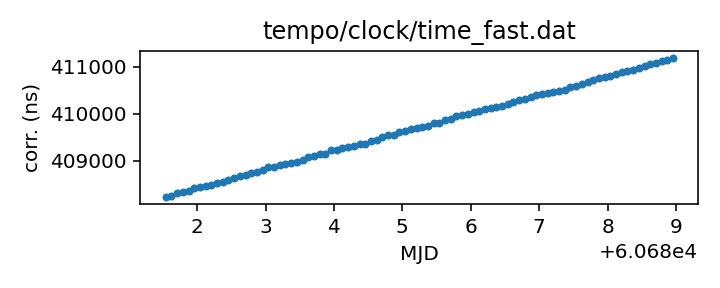
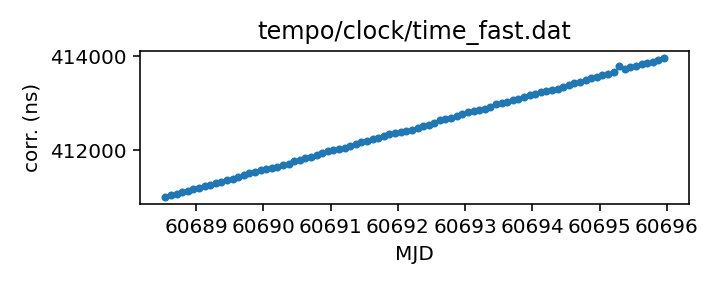
Routine gh-pages update from Github action Wed Jan 22 20:35:40 UTC 2025

diff --git a/status.md b/status.md
@@ -13,18 +13,18 @@ name of each clock file links to a page with more details.
 
 | Name | File | Corrections start | Corrections end | Last check date | Last check result 
 |:--- |:--- | --- | --- | --- |:--- 
-| [GPS to UTC](T2runtime/clock/gps2utc.clk.html) | `T2runtime/clock/gps2utc.clk` | 1993-01-01 MJD 48988.0 | 2024-12-30 MJD 60674.0 | 2025-01-21 | Unchanged 
-| [GPS to UTC (Combined Clock)](T2runtime/clock/gps2utc_cc.clk.html) | `T2runtime/clock/gps2utc_cc.clk` | 1993-01-01 MJD 48988.0 | 2024-12-30 MJD 60674.0 | 2025-01-21 | Unchanged 
-| [GPS to UTC (Corrected)](T2runtime/clock/gps2utc_c0p.clk.html) | `T2runtime/clock/gps2utc_c0p.clk` | 2010-12-29 MJD 55559.0 | 2024-12-30 MJD 60674.0 | 2025-01-21 | Unchanged 
-| [GBT](tempo/clock/time_gbt.dat.html) | `tempo/clock/time_gbt.dat` | 2000-12-31 MJD 51909.5 | 2024-05-18 MJD 60448.5 | 2025-01-21 | **Validation failed** 
+| [GPS to UTC](T2runtime/clock/gps2utc.clk.html) | `T2runtime/clock/gps2utc.clk` | 1993-01-01 MJD 48988.0 | 2024-12-30 MJD 60674.0 | 2025-01-22 | Unchanged 
+| [GPS to UTC (Combined Clock)](T2runtime/clock/gps2utc_cc.clk.html) | `T2runtime/clock/gps2utc_cc.clk` | 1993-01-01 MJD 48988.0 | 2024-12-30 MJD 60674.0 | 2025-01-22 | Unchanged 
+| [GPS to UTC (Corrected)](T2runtime/clock/gps2utc_c0p.clk.html) | `T2runtime/clock/gps2utc_c0p.clk` | 2010-12-29 MJD 55559.0 | 2024-12-30 MJD 60674.0 | 2025-01-22 | Unchanged 
+| [GBT](tempo/clock/time_gbt.dat.html) | `tempo/clock/time_gbt.dat` | 2000-12-31 MJD 51909.5 | 2024-05-18 MJD 60448.5 | 2025-01-22 | **Validation failed** 
 | [GBT (TEMPO2 converted from TEMPO)](T2runtime/clock/gbt2gps.clk.html) | `T2runtime/clock/gbt2gps.clk` | 2000-12-31 MJD 51909.5 | 2024-05-18 MJD 60448.5 | 2024-05-19 | Updated 
-| [Jodrell Bank](T2runtime/clock/jb2gps.clk.html) | `T2runtime/clock/jb2gps.clk` | 2006-10-13 MJD 54021.4 | 2024-11-07 MJD 60621.0 | 2025-01-15 | Unchanged 
-| [Jodrell Bank Roach](T2runtime/clock/jbroach2jb.clk.html) | `T2runtime/clock/jbroach2jb.clk` | 2006-10-13 MJD 54021.4 | 2018-03-20 MJD 58197.6 | 2025-01-15 | Unchanged 
-| [Jodrell Bank DFB](T2runtime/clock/jbdfb2jb.clk.html) | `T2runtime/clock/jbdfb2jb.clk` | 2006-10-13 MJD 54021.4 | 2017-05-11 MJD 57884.0 | 2025-01-15 | Unchanged 
-| [Meerkat (observatory)](T2runtime/clock/mk2utc_observatory.clk.html) | `T2runtime/clock/mk2utc_observatory.clk` | 2019-01-01 MJD 58484.0 | 2024-12-05 MJD 60650.0 | 2025-01-15 | Updated 
-| [Leap seconds](tempo/clock/leap.sec.html) | `tempo/clock/leap.sec` | 1972-07-01 MJD 41499.0 | 2017-01-01 MJD 57754.0 | 2025-01-21 | Unchanged 
-| [UT1 table](tempo/clock/ut1.dat.html) | `tempo/clock/ut1.dat` | 1973-01-02 MJD 41684.0 | 2026-01-24 MJD 61064.0 | 2025-01-21 | Unchanged 
-| [UT1 table](T2runtime/clock/ut1.dat.html) | `T2runtime/clock/ut1.dat` | 1973-01-02 MJD 41684.0 | 2026-01-24 MJD 61064.0 | 2025-01-21 | Unchanged 
+| [Jodrell Bank](T2runtime/clock/jb2gps.clk.html) | `T2runtime/clock/jb2gps.clk` | 2006-10-13 MJD 54021.4 | 2024-11-07 MJD 60621.0 | 2025-01-22 | Unchanged 
+| [Jodrell Bank Roach](T2runtime/clock/jbroach2jb.clk.html) | `T2runtime/clock/jbroach2jb.clk` | 2006-10-13 MJD 54021.4 | 2018-03-20 MJD 58197.6 | 2025-01-22 | Unchanged 
+| [Jodrell Bank DFB](T2runtime/clock/jbdfb2jb.clk.html) | `T2runtime/clock/jbdfb2jb.clk` | 2006-10-13 MJD 54021.4 | 2017-05-11 MJD 57884.0 | 2025-01-22 | Unchanged 
+| [Meerkat (observatory)](T2runtime/clock/mk2utc_observatory.clk.html) | `T2runtime/clock/mk2utc_observatory.clk` | 2019-01-01 MJD 58484.0 | 2024-12-05 MJD 60650.0 | 2025-01-22 | **Failed to download** 
+| [Leap seconds](tempo/clock/leap.sec.html) | `tempo/clock/leap.sec` | 1972-07-01 MJD 41499.0 | 2017-01-01 MJD 57754.0 | 2025-01-22 | Unchanged 
+| [UT1 table](tempo/clock/ut1.dat.html) | `tempo/clock/ut1.dat` | 1973-01-02 MJD 41684.0 | 2026-01-24 MJD 61064.0 | 2025-01-22 | Unchanged 
+| [UT1 table](T2runtime/clock/ut1.dat.html) | `T2runtime/clock/ut1.dat` | 1973-01-02 MJD 41684.0 | 2026-01-24 MJD 61064.0 | 2025-01-22 | Unchanged 
 
 
 
@@ -67,26 +67,26 @@ name of each clock file links to a page with more details.
 
 | Name | File | Corrections start | Corrections end | Last check date | Last check result 
 |:--- |:--- | --- | --- | --- |:--- 
-| [GPS to UTC (TEMPO2)](T2runtime/clock/gps2utc_tempo2.clk.html) | `T2runtime/clock/gps2utc_tempo2.clk` | 1996-03-27 MJD 50169.0 | 2022-10-27 MJD 59879.0 | 2025-01-15 | **Failed to download** 
-| [GBT (TEMPO2)](T2runtime/clock/gbt2gps_tempo2.clk.html) | `T2runtime/clock/gbt2gps_tempo2.clk` | 2000-12-31 MJD 51909.5 | 2020-02-25 MJD 58904.5 | 2025-01-15 | Unchanged 
-| [Jodrell Bank (TEMPO)](tempo/clock/time_jb.dat.html) | `tempo/clock/time_jb.dat` | 2006-10-13 MJD 54021.4 | 2019-05-13 MJD 58616.2 | 2025-01-15 | Unchanged 
-| [VLA](tempo/clock/time_vla.dat.html) | `tempo/clock/time_vla.dat` | 1990-10-27 MJD 48191.2 | 2021-03-07 MJD 59280.5 | 2025-01-15 | Unchanged 
-| [VLA (TEMPO2)](T2runtime/clock/vla2gps.clk.html) | `T2runtime/clock/vla2gps.clk` | 2015-02-01 MJD 57054.6 | 2021-03-07 MJD 59280.5 | 2025-01-15 | Unchanged 
-| [VLA to NIST](T2runtime/clock/vla2nist.clk.html) | `T2runtime/clock/vla2nist.clk` | 1990-10-27 MJD 48191.2 | 1993-11-13 MJD 49304.0 | 2025-01-15 | Unchanged 
-| [FAST](tempo/clock/time_fast.dat.html) | `tempo/clock/time_fast.dat` | 2017-07-27 MJD 57961.0 | 2025-01-13 MJD 60689.0 | 2025-01-15 | Updated 
-| [WSRT](T2runtime/clock/wsrt2gps.clk.html) | `T2runtime/clock/wsrt2gps.clk` | 1999-01-01 MJD 51179.5 | 2015-06-29 MJD 57202.1 | 2025-01-15 | Unchanged 
-| [WSRT (TEMPO)](tempo/clock/time_wsrt.dat.html) | `tempo/clock/time_wsrt.dat` | 1987-07-24 MJD 47000.0 | 2007-12-24 MJD 54458.0 | 2025-01-15 | **Validation failed** 
-| [Parkes](T2runtime/clock/pks2gps.clk.html) | `T2runtime/clock/pks2gps.clk` | 1858-11-17 MJD 0.0 | 2024-11-30 MJD 60644.1 | 2025-01-15 | Unchanged 
-| [Parkes (TEMPO)](tempo/clock/time_pks.dat.html) | `tempo/clock/time_pks.dat` | 1979-05-07 MJD 44000.0 | 2011-07-03 MJD 55745.8 | 2025-01-15 | **Validation failed** 
-| [SRT](T2runtime/clock/srt2gps.clk.html) | `T2runtime/clock/srt2gps.clk` | 2013-03-20 MJD 56371.0 | 2019-12-11 MJD 58828.0 | 2025-01-15 | Unchanged 
-| [Effelsberg](T2runtime/clock/eff2gps.clk.html) | `T2runtime/clock/eff2gps.clk` | 1993-11-29 MJD 49320.0 | 2015-06-22 MJD 57195.5 | 2025-01-15 | Unchanged 
-| [Effelsberg Asterix/PSRix](T2runtime/clock/effix2gps.clk.html) | `T2runtime/clock/effix2gps.clk` | 2011-01-01 MJD 55562.5 | 2021-03-21 MJD 59294.5 | 2025-01-15 | Unchanged 
-| [LEAP](T2runtime/clock/leap2effix.clk.html) | `T2runtime/clock/leap2effix.clk` | 2012-10-29 MJD 56230.0 | 2014-03-04 MJD 56720.0 | 2025-01-15 | Unchanged 
-| [NUPPI](tempo/clock/time_nuppi.dat.html) | `tempo/clock/time_nuppi.dat` | 2005-03-07 MJD 53436.0 | 2015-11-08 MJD 57334.6 | 2025-01-15 | Unchanged 
-| [Meerkat (TEMPO2)](T2runtime/clock/mk2utc.clk.html) | `T2runtime/clock/mk2utc.clk` | 2019-01-01 MJD 58484.0 | 2024-09-23 MJD 60576.9 | 2025-01-15 | Unchanged 
-| [MOST](T2runtime/clock/mo2gps.clk.html) | `T2runtime/clock/mo2gps.clk` | 2003-12-27 MJD 53000.0 | 2018-09-06 MJD 58367.0 | 2025-01-15 | Unchanged 
-| [Nancay to obspm](T2runtime/clock/ncyobs2obspm.clk.html) | `T2runtime/clock/ncyobs2obspm.clk` | 1988-05-18 MJD 47299.6 | 2023-10-27 MJD 60244.0 | 2025-01-15 | Unchanged 
-| [obspm](T2runtime/clock/obspm2gps.clk.html) | `T2runtime/clock/obspm2gps.clk` | 2003-12-01 MJD 52974.0 | 2023-10-27 MJD 60244.0 | 2025-01-15 | Unchanged 
+| [GPS to UTC (TEMPO2)](T2runtime/clock/gps2utc_tempo2.clk.html) | `T2runtime/clock/gps2utc_tempo2.clk` | 1996-03-27 MJD 50169.0 | 2022-10-27 MJD 59879.0 | 2025-01-22 | **Failed to download** 
+| [GBT (TEMPO2)](T2runtime/clock/gbt2gps_tempo2.clk.html) | `T2runtime/clock/gbt2gps_tempo2.clk` | 2000-12-31 MJD 51909.5 | 2020-02-25 MJD 58904.5 | 2025-01-22 | Unchanged 
+| [Jodrell Bank (TEMPO)](tempo/clock/time_jb.dat.html) | `tempo/clock/time_jb.dat` | 2006-10-13 MJD 54021.4 | 2019-05-13 MJD 58616.2 | 2025-01-22 | Unchanged 
+| [VLA](tempo/clock/time_vla.dat.html) | `tempo/clock/time_vla.dat` | 1990-10-27 MJD 48191.2 | 2021-03-07 MJD 59280.5 | 2025-01-22 | Unchanged 
+| [VLA (TEMPO2)](T2runtime/clock/vla2gps.clk.html) | `T2runtime/clock/vla2gps.clk` | 2015-02-01 MJD 57054.6 | 2021-03-07 MJD 59280.5 | 2025-01-22 | Unchanged 
+| [VLA to NIST](T2runtime/clock/vla2nist.clk.html) | `T2runtime/clock/vla2nist.clk` | 1990-10-27 MJD 48191.2 | 1993-11-13 MJD 49304.0 | 2025-01-22 | Unchanged 
+| [FAST](tempo/clock/time_fast.dat.html) | `tempo/clock/time_fast.dat` | 2017-07-27 MJD 57961.0 | 2025-01-20 MJD 60696.0 | 2025-01-22 | Updated 
+| [WSRT](T2runtime/clock/wsrt2gps.clk.html) | `T2runtime/clock/wsrt2gps.clk` | 1999-01-01 MJD 51179.5 | 2015-06-29 MJD 57202.1 | 2025-01-22 | Unchanged 
+| [WSRT (TEMPO)](tempo/clock/time_wsrt.dat.html) | `tempo/clock/time_wsrt.dat` | 1987-07-24 MJD 47000.0 | 2007-12-24 MJD 54458.0 | 2025-01-22 | **Validation failed** 
+| [Parkes](T2runtime/clock/pks2gps.clk.html) | `T2runtime/clock/pks2gps.clk` | 1858-11-17 MJD 0.0 | 2024-11-30 MJD 60644.1 | 2025-01-22 | Unchanged 
+| [Parkes (TEMPO)](tempo/clock/time_pks.dat.html) | `tempo/clock/time_pks.dat` | 1979-05-07 MJD 44000.0 | 2011-07-03 MJD 55745.8 | 2025-01-22 | **Validation failed** 
+| [SRT](T2runtime/clock/srt2gps.clk.html) | `T2runtime/clock/srt2gps.clk` | 2013-03-20 MJD 56371.0 | 2019-12-11 MJD 58828.0 | 2025-01-22 | Unchanged 
+| [Effelsberg](T2runtime/clock/eff2gps.clk.html) | `T2runtime/clock/eff2gps.clk` | 1993-11-29 MJD 49320.0 | 2015-06-22 MJD 57195.5 | 2025-01-22 | Unchanged 
+| [Effelsberg Asterix/PSRix](T2runtime/clock/effix2gps.clk.html) | `T2runtime/clock/effix2gps.clk` | 2011-01-01 MJD 55562.5 | 2021-03-21 MJD 59294.5 | 2025-01-22 | Unchanged 
+| [LEAP](T2runtime/clock/leap2effix.clk.html) | `T2runtime/clock/leap2effix.clk` | 2012-10-29 MJD 56230.0 | 2014-03-04 MJD 56720.0 | 2025-01-22 | Unchanged 
+| [NUPPI](tempo/clock/time_nuppi.dat.html) | `tempo/clock/time_nuppi.dat` | 2005-03-07 MJD 53436.0 | 2015-11-08 MJD 57334.6 | 2025-01-22 | Unchanged 
+| [Meerkat (TEMPO2)](T2runtime/clock/mk2utc.clk.html) | `T2runtime/clock/mk2utc.clk` | 2019-01-01 MJD 58484.0 | 2024-09-23 MJD 60576.9 | 2025-01-22 | Unchanged 
+| [MOST](T2runtime/clock/mo2gps.clk.html) | `T2runtime/clock/mo2gps.clk` | 2003-12-27 MJD 53000.0 | 2018-09-06 MJD 58367.0 | 2025-01-22 | Unchanged 
+| [Nancay to obspm](T2runtime/clock/ncyobs2obspm.clk.html) | `T2runtime/clock/ncyobs2obspm.clk` | 1988-05-18 MJD 47299.6 | 2023-10-27 MJD 60244.0 | 2025-01-22 | Unchanged 
+| [obspm](T2runtime/clock/obspm2gps.clk.html) | `T2runtime/clock/obspm2gps.clk` | 2003-12-01 MJD 52974.0 | 2023-10-27 MJD 60244.0 | 2025-01-22 | Unchanged 
 
 
 ### Further information:

diff --git a/tempo/clock/time_pks.dat.md b/tempo/clock/time_pks.dat.md
@@ -20,12 +20,11 @@ telescopes in the same file, distinguished only by observatory code.
 | Clock file start | 1979-05-07 MJD 44000.0 |
 | Clock file end | 2011-07-03 MJD 55745.8 |
 | Update interval (days) | 7 |
-| Last update attempt | 2025-01-15 |
+| Last update attempt | 2025-01-22 |
 | Last update result | Validation failed |
 
 Log entries from the last few update attempts:
 ```
-2024-10-04 20:33:16.722 - Validation failed: Unable to read new version of tempo/clock/time_pks.dat: Clock file /tmp/astropy-download-1844-zxupk919 appears to be out of order: 49959.0 > 49958.0
 2024-10-11 20:39:11.255 - Validation failed: Unable to read new version of tempo/clock/time_pks.dat: Clock file /tmp/astropy-download-2062-ylxvq7_t appears to be out of order: 49959.0 > 49958.0
 2024-11-27 20:39:55.006 - Validation failed: Unable to read new version of tempo/clock/time_pks.dat: Clock file /tmp/astropy-download-2172-0awx7c85 appears to be out of order: 49959.0 > 49958.0
 2024-12-04 20:40:28.450 - Validation failed: Unable to read new version of tempo/clock/time_pks.dat: Clock file /tmp/astropy-download-2139-qynhkydv appears to be out of order: 49959.0 > 49958.0
@@ -35,6 +34,7 @@ Log entries from the last few update attempts:
 2025-01-01 20:35:37.359 - Validation failed: Unable to read new version of tempo/clock/time_pks.dat: Clock file /tmp/astropy-download-2322-zqzvwthm appears to be out of order: 49959.0 > 49958.0
 2025-01-08 20:36:54.237 - Validation failed: Unable to read new version of tempo/clock/time_pks.dat: Clock file /tmp/astropy-download-2276-gpk3q2dj appears to be out of order: 49959.0 > 49958.0
 2025-01-15 20:35:03.801 - Validation failed: Unable to read new version of tempo/clock/time_pks.dat: Clock file /tmp/astropy-download-2348-0794xif6 appears to be out of order: 49959.0 > 49958.0
+2025-01-22 20:35:06.602 - Validation failed: Unable to read new version of tempo/clock/time_pks.dat: Clock file /tmp/astropy-download-2304-98v3yima appears to be out of order: 49959.0 > 49958.0
 ```
 [Full log](https://raw.githubusercontent.com/ipta/pulsar-clock-corrections/main/log/tempo/clock/time_pks.dat.log)
 

diff --git a/tempo/clock/time_wsrt.dat.md b/tempo/clock/time_wsrt.dat.md
@@ -20,12 +20,11 @@ should be the same information.
 | Clock file start | 1987-07-24 MJD 47000.0 |
 | Clock file end | 2007-12-24 MJD 54458.0 |
 | Update interval (days) | 7 |
-| Last update attempt | 2025-01-15 |
+| Last update attempt | 2025-01-22 |
 | Last update result | Validation failed |
 
 Log entries from the last few update attempts:
 ```
-2024-10-04 20:33:11.870 - Validation failed: Unable to read new version of tempo/clock/time_wsrt.dat: Clock file /tmp/astropy-download-1844-0osy84qv appears to be out of order: 53000.05 > 53000.0
 2024-10-11 20:39:06.536 - Validation failed: Unable to read new version of tempo/clock/time_wsrt.dat: Clock file /tmp/astropy-download-2062-gcmj1d9q appears to be out of order: 53000.05 > 53000.0
 2024-11-27 20:39:50.095 - Validation failed: Unable to read new version of tempo/clock/time_wsrt.dat: Clock file /tmp/astropy-download-2172-cdd9mcj0 appears to be out of order: 53000.05 > 53000.0
 2024-12-04 20:40:23.375 - Validation failed: Unable to read new version of tempo/clock/time_wsrt.dat: Clock file /tmp/astropy-download-2139-0s_r4fkf appears to be out of order: 53000.05 > 53000.0
@@ -35,6 +34,7 @@ Log entries from the last few update attempts:
 2025-01-01 20:35:30.783 - Validation failed: Unable to read new version of tempo/clock/time_wsrt.dat: Clock file /tmp/astropy-download-2322-p_8_1oop appears to be out of order: 53000.05 > 53000.0
 2025-01-08 20:36:50.333 - Validation failed: Unable to read new version of tempo/clock/time_wsrt.dat: Clock file /tmp/astropy-download-2276-l3i_8691 appears to be out of order: 53000.05 > 53000.0
 2025-01-15 20:35:00.039 - Validation failed: Unable to read new version of tempo/clock/time_wsrt.dat: Clock file /tmp/astropy-download-2348-_2252_mq appears to be out of order: 53000.05 > 53000.0
+2025-01-22 20:35:01.240 - Validation failed: Unable to read new version of tempo/clock/time_wsrt.dat: Clock file /tmp/astropy-download-2304-riwd1xxy appears to be out of order: 53000.05 > 53000.0
 ```
 [Full log](https://raw.githubusercontent.com/ipta/pulsar-clock-corrections/main/log/tempo/clock/time_wsrt.dat.log)
 

diff --git a/tempo/clock/time_gbt.dat.md b/tempo/clock/time_gbt.dat.md
@@ -33,12 +33,11 @@ If questions arise, contact Ryan S. Lynch <rlynch@nrao.edu>.
 | Clock file start | 2000-12-31 MJD 51909.5 |
 | Clock file end | 2024-05-18 MJD 60448.5 |
 | Update interval (days) | 1 |
-| Last update attempt | 2025-01-21 |
+| Last update attempt | 2025-01-22 |
 | Last update result | Validation failed |
 
 Log entries from the last few update attempts:
 ```
-2025-01-12 20:34:33.855 - Validation failed: New version of tempo/clock/time_gbt.dat clock corrections differ from old version where they overlap in 11 places
 2025-01-13 20:35:37.686 - Validation failed: New version of tempo/clock/time_gbt.dat clock corrections differ from old version where they overlap in 11 places
 2025-01-14 20:34:57.466 - Validation failed: New version of tempo/clock/time_gbt.dat clock corrections differ from old version where they overlap in 11 places
 2025-01-15 20:34:54.366 - Validation failed: New version of tempo/clock/time_gbt.dat clock corrections differ from old version where they overlap in 11 places
@@ -48,6 +47,7 @@ Log entries from the last few update attempts:
 2025-01-19 20:33:08.550 - Validation failed: New version of tempo/clock/time_gbt.dat clock corrections differ from old version where they overlap in 11 places
 2025-01-20 20:34:35.844 - Validation failed: New version of tempo/clock/time_gbt.dat clock corrections differ from old version where they overlap in 11 places
 2025-01-21 20:36:00.088 - Validation failed: New version of tempo/clock/time_gbt.dat clock corrections differ from old version where they overlap in 11 places
+2025-01-22 20:34:57.843 - Validation failed: New version of tempo/clock/time_gbt.dat clock corrections differ from old version where they overlap in 11 places
 ```
 [Full log](https://raw.githubusercontent.com/ipta/pulsar-clock-corrections/main/log/tempo/clock/time_gbt.dat.log)
 

diff --git a/T2runtime/clock/mk2utc_observatory.clk.md b/T2runtime/clock/mk2utc_observatory.clk.md
@@ -21,12 +21,11 @@ If questions arise, contact Ryan Shannon <rshannon@swin.edu.au>
 | Clock file start | 2019-01-01 MJD 58484.0 |
 | Clock file end | 2024-12-05 MJD 60650.0 |
 | Update interval (days) | 7 |
-| Last update attempt | 2025-01-15 |
-| Last update result | Updated |
+| Last update attempt | 2025-01-22 |
+| Last update result | Failed to download |
 
 Log entries from the last few update attempts:
 ```
-2024-10-04 20:33:22.425 - Failed to download: HTTP Error 403: Forbidden
 2024-10-11 20:39:13.519 - Failed to download: HTTP Error 403: Forbidden
 2024-11-27 20:39:59.127 - Failed to download: HTTP Error 403: Forbidden
 2024-12-04 20:40:30.649 - Failed to download: HTTP Error 403: Forbidden
@@ -36,6 +35,7 @@ Log entries from the last few update attempts:
 2025-01-01 20:35:40.302 - Failed to download: HTTP Error 403: Forbidden
 2025-01-08 20:37:07.662 - Failed to download: The read operation timed out
 2025-01-15 20:35:17.790 - Updated
+2025-01-22 20:35:17.843 - Failed to download: <urlopen error _ssl.c:989: The handshake operation timed out>
 ```
 [Full log](https://raw.githubusercontent.com/ipta/pulsar-clock-corrections/main/log/T2runtime/clock/mk2utc_observatory.clk.log)
 

diff --git a/T2runtime/clock/gps2utc_tempo2.clk.md b/T2runtime/clock/gps2utc_tempo2.clk.md
@@ -27,12 +27,11 @@ are from the column C0').
 | Clock file start | 1996-03-27 MJD 50169.0 |
 | Clock file end | 2022-10-27 MJD 59879.0 |
 | Update interval (days) | 7 |
-| Last update attempt | 2025-01-15 |
+| Last update attempt | 2025-01-22 |
 | Last update result | Failed to download |
 
 Log entries from the last few update attempts:
 ```
-2024-10-04 20:32:41.616 - Failed to download: HTTP Error 404: Not Found
 2024-10-11 20:38:36.240 - Failed to download: HTTP Error 404: Not Found
 2024-11-27 20:36:13.070 - Failed to download: HTTP Error 404: Not Found
 2024-12-04 20:36:44.750 - Failed to download: HTTP Error 404: Not Found
@@ -42,6 +41,7 @@ Log entries from the last few update attempts:
 2025-01-01 20:31:40.086 - Failed to download: HTTP Error 404: Not Found
 2025-01-08 20:32:59.291 - Failed to download: HTTP Error 404: Not Found
 2025-01-15 20:31:08.167 - Failed to download: HTTP Error 404: Not Found
+2025-01-22 20:31:23.556 - Failed to download: HTTP Error 404: Not Found
 ```
 [Full log](https://raw.githubusercontent.com/ipta/pulsar-clock-corrections/main/log/T2runtime/clock/gps2utc_tempo2.clk.log)
 

diff --git a/tempo/clock/time_fast.dat.md b/tempo/clock/time_fast.dat.md
@@ -14,14 +14,13 @@ This file is pulled from the FAST_ClockFile repository.
 | Format | tempo |
 | Bogus last correction | False |
 | Clock file start | 2017-07-27 MJD 57961.0 |
-| Clock file end | 2025-01-13 MJD 60689.0 |
+| Clock file end | 2025-01-20 MJD 60696.0 |
 | Update interval (days) | 7 |
-| Last update attempt | 2025-01-15 |
+| Last update attempt | 2025-01-22 |
 | Last update result | Updated |
 
 Log entries from the last few update attempts:
 ```
-2024-10-04 20:33:11.391 - Updated
 2024-10-11 20:39:06.020 - Updated
 2024-11-27 20:39:49.767 - Updated
 2024-12-04 20:40:22.909 - Updated
@@ -31,6 +30,7 @@ Log entries from the last few update attempts:
 2025-01-01 20:35:27.188 - Updated
 2025-01-08 20:36:49.677 - Updated
 2025-01-15 20:34:59.214 - Updated
+2025-01-22 20:35:00.623 - Updated
 ```
 [Full log](https://raw.githubusercontent.com/ipta/pulsar-clock-corrections/main/log/tempo/clock/time_fast.dat.log)
 

diff --git a/T2runtime/clock/gps2utc_c0p.clk.md b/T2runtime/clock/gps2utc_c0p.clk.md
@@ -30,12 +30,11 @@ about the BIPM's published corrections, contact <tai@bipm.org>.
 | Clock file start | 2010-12-29 MJD 55559.0 |
 | Clock file end | 2024-12-30 MJD 60674.0 |
 | Update interval (days) | 1 |
-| Last update attempt | 2025-01-21 |
+| Last update attempt | 2025-01-22 |
 | Last update result | Unchanged |
 
 Log entries from the last few update attempts:
 ```
-2025-01-12 20:34:33.418 - Unchanged
 2025-01-13 20:35:37.385 - Unchanged
 2025-01-14 20:34:57.108 - Unchanged
 2025-01-15 20:34:53.621 - Unchanged
@@ -45,6 +44,7 @@ Log entries from the last few update attempts:
 2025-01-19 20:33:07.984 - Unchanged
 2025-01-20 20:34:34.931 - Unchanged
 2025-01-21 20:35:59.232 - Unchanged
+2025-01-22 20:34:57.428 - Unchanged
 ```
 [Full log](https://raw.githubusercontent.com/ipta/pulsar-clock-corrections/main/log/T2runtime/clock/gps2utc_c0p.clk.log)
 

diff --git a/T2runtime/clock/gps2utc_cc.clk.md b/T2runtime/clock/gps2utc_cc.clk.md
@@ -29,12 +29,11 @@ about the BIPM's published corrections, contact <tai@bipm.org>.
 | Clock file start | 1993-01-01 MJD 48988.0 |
 | Clock file end | 2024-12-30 MJD 60674.0 |
 | Update interval (days) | 1 |
-| Last update attempt | 2025-01-21 |
+| Last update attempt | 2025-01-22 |
 | Last update result | Unchanged |
 
 Log entries from the last few update attempts:
 ```
-2025-01-12 20:34:33.409 - Unchanged
 2025-01-13 20:35:37.377 - Unchanged
 2025-01-14 20:34:57.100 - Unchanged
 2025-01-15 20:34:53.613 - Unchanged
@@ -44,6 +43,7 @@ Log entries from the last few update attempts:
 2025-01-19 20:33:07.977 - Unchanged
 2025-01-20 20:34:34.923 - Unchanged
 2025-01-21 20:35:59.224 - Unchanged
+2025-01-22 20:34:57.420 - Unchanged
 ```
 [Full log](https://raw.githubusercontent.com/ipta/pulsar-clock-corrections/main/log/T2runtime/clock/gps2utc_cc.clk.log)
 

diff --git a/T2runtime/clock/gps2utc.clk.md b/T2runtime/clock/gps2utc.clk.md
@@ -32,12 +32,11 @@ about the BIPM's published corrections, contact <tai@bipm.org>.
 | Clock file start | 1993-01-01 MJD 48988.0 |
 | Clock file end | 2024-12-30 MJD 60674.0 |
 | Update interval (days) | 1 |
-| Last update attempt | 2025-01-21 |
+| Last update attempt | 2025-01-22 |
 | Last update result | Unchanged |
 
 Log entries from the last few update attempts:
 ```
-2025-01-12 20:34:33.387 - Unchanged
 2025-01-13 20:35:37.354 - Unchanged
 2025-01-14 20:34:57.077 - Unchanged
 2025-01-15 20:34:53.590 - Unchanged
@@ -47,6 +46,7 @@ Log entries from the last few update attempts:
 2025-01-19 20:33:07.954 - Unchanged
 2025-01-20 20:34:34.900 - Unchanged
 2025-01-21 20:35:59.202 - Unchanged
+2025-01-22 20:34:57.397 - Unchanged
 ```
 [Full log](https://raw.githubusercontent.com/ipta/pulsar-clock-corrections/main/log/T2runtime/clock/gps2utc.clk.log)
 

diff --git a/T2runtime/clock/ncyobs2obspm.clk.md b/T2runtime/clock/ncyobs2obspm.clk.md
@@ -22,12 +22,11 @@ thus here) can be expected to be somewhat up to date.
 | Clock file start | 1988-05-18 MJD 47299.6 |
 | Clock file end | 2023-10-27 MJD 60244.0 |
 | Update interval (days) | 7 |
-| Last update attempt | 2025-01-15 |
+| Last update attempt | 2025-01-22 |
 | Last update result | Unchanged |
 
 Log entries from the last few update attempts:
 ```
-2024-10-04 20:33:23.482 - Unchanged
 2024-10-11 20:39:14.655 - Unchanged
 2024-11-27 20:40:00.686 - Unchanged
 2024-12-04 20:40:31.702 - Unchanged
@@ -37,6 +36,7 @@ Log entries from the last few update attempts:
 2025-01-01 20:35:42.069 - Unchanged
 2025-01-08 20:37:09.786 - Unchanged
 2025-01-15 20:35:19.897 - Unchanged
+2025-01-22 20:35:18.846 - Unchanged
 ```
 [Full log](https://raw.githubusercontent.com/ipta/pulsar-clock-corrections/main/log/T2runtime/clock/ncyobs2obspm.clk.log)
 

diff --git a/T2runtime/clock/leap2effix.clk.md b/T2runtime/clock/leap2effix.clk.md
@@ -23,12 +23,11 @@ thus here) can be expected to be somewhat up to date.
 | Clock file start | 2012-10-29 MJD 56230.0 |
 | Clock file end | 2014-03-04 MJD 56720.0 |
 | Update interval (days) | 7 |
-| Last update attempt | 2025-01-15 |
+| Last update attempt | 2025-01-22 |
 | Last update result | Unchanged |
 
 Log entries from the last few update attempts:
 ```
-2024-10-04 20:33:17.611 - Unchanged
 2024-10-11 20:39:12.181 - Unchanged
 2024-11-27 20:39:55.586 - Unchanged
 2024-12-04 20:40:29.120 - Unchanged
@@ -38,6 +37,7 @@ Log entries from the last few update attempts:
 2025-01-01 20:35:38.815 - Unchanged
 2025-01-08 20:36:56.112 - Unchanged
 2025-01-15 20:35:05.641 - Unchanged
+2025-01-22 20:35:07.264 - Unchanged
 ```
 [Full log](https://raw.githubusercontent.com/ipta/pulsar-clock-corrections/main/log/T2runtime/clock/leap2effix.clk.log)
 
